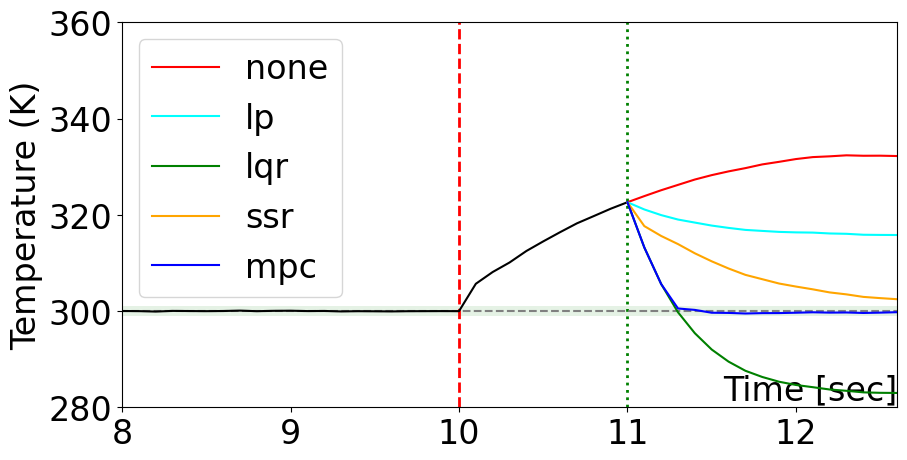
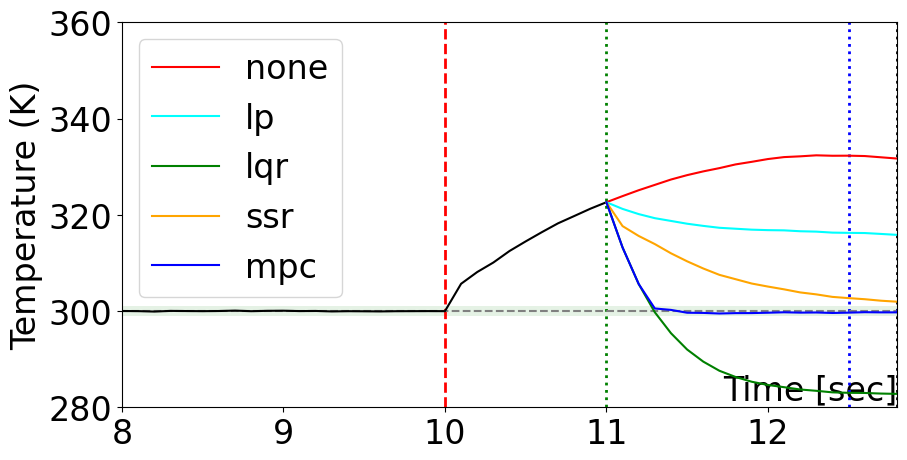
added deadline vline

diff --git a/rtas/compare_all.py b/rtas/compare_all.py
@@ -388,6 +388,9 @@ for exp in exps:
     if exp.y_lim:
         plt.vlines(exp.attack_start_index*exp.dt, exp.y_lim[0], exp.y_lim[1], colors='red', linestyle='dashed', linewidth=2)
         plt.vlines(exp.recovery_index*exp.dt, exp.y_lim[0], exp.y_lim[1], colors='green', linestyle='dotted', linewidth=2)
+        # print(exp.attack_start_index + deadline_for_all_methods)
+        plt.vlines((exp.attack_start_index + deadline_for_all_methods - maintain_time)*exp.dt, exp.y_lim[0], exp.y_lim[1], colors='blue', linestyle='dotted', linewidth=2)
+        plt.vlines((exp.attack_start_index + deadline_for_all_methods)*exp.dt, exp.y_lim[0], exp.y_lim[1], colors='black', linestyle='dotted', linewidth=2)
     # strip
     cnt = len(t_arr)
     y1 = [exp.strip[0]]*cnt

diff --git a/rtas/settings.py b/rtas/settings.py
@@ -133,9 +133,9 @@ class cstr_bias:
     output_index = 1 # index in state
     ref_index = 1 # index in state
 
-    safe_set_lo = np.array([0, 250])
+    safe_set_lo = np.array([-5, 250])
     safe_set_up = np.array([5, 360])
-    target_set_lo = np.array([0, 299])
+    target_set_lo = np.array([-5, 299])
     target_set_up = np.array([5, 301])
     control_lo = np.array([250])
     control_up = np.array([350])
@@ -151,7 +151,7 @@ class cstr_bias:
 
     # plot
     y_lim = (280, 360)
-    x_lim = (8, dt * 126)
+    x_lim = (8, dt * 128)
     y_label = 'Temperature'
     strip = (target_set_lo[output_index], target_set_up[output_index])
     y_label = 'Temperature (K)'
